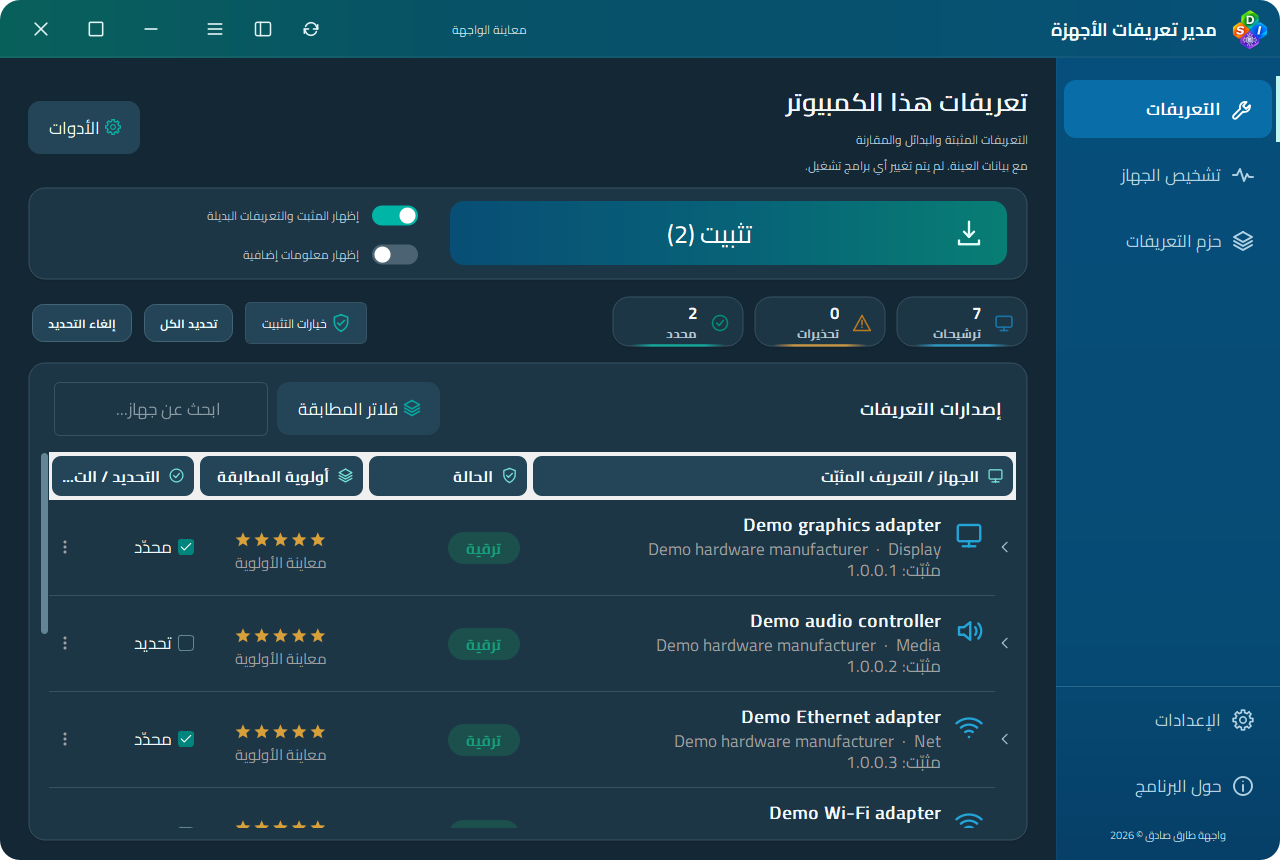
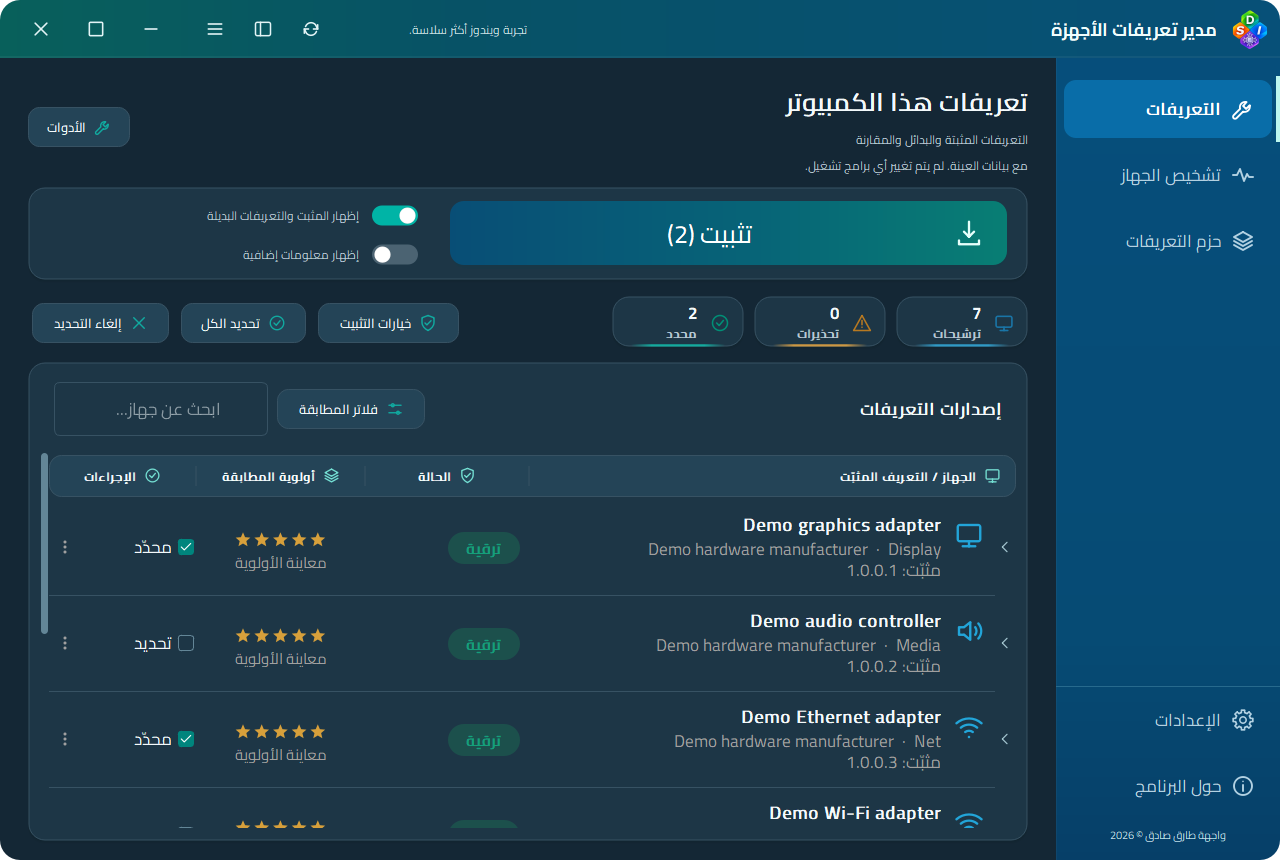
Unify workspace commands and round table header and row hover for 0.21.9 Beta

diff --git a/src/driver_workspace.cpp b/src/driver_workspace.cpp
@@ -44,10 +44,25 @@
 #include <functional>
 #include "driver_row_delegate.h"
 
+// Paint the entire header once so native section backgrounds cannot leave square corners.
 class DriverHeader : public QHeaderView {
-public:explicit DriverHeader(QWidget *parent):QHeaderView(Qt::Horizontal,parent){setMinimumHeight(48);setMaximumHeight(48);}
-protected:void paintSection(QPainter *p,const QRect &rect,int section)const Q_DECL_OVERRIDE {
-    if(!rect.isValid())return;const bool dark=Theme::isDark(this),rtl=layoutDirection()==Qt::RightToLeft;const QColor link=Theme::color("link",dark);const QRect area=rect.adjusted(3,4,-3,-4);p->save();p->setRenderHint(QPainter::Antialiasing);p->setPen(Qt::NoPen);p->setBrush(Theme::color("elevated",dark));p->drawRoundedRect(area,9,9);QFont face=font();face.setFamily(UiFont::family());face.setPointSizeF(9);face.setWeight(QFont::DemiBold);p->setFont(face);p->setPen(Theme::color("text",dark));const char *symbols[]={"monitor","shield","layers","check-circle"};QRect textArea=area.adjusted(rtl?8:34,0,rtl?-34:-8,0);VectorIcons::icon(QString::fromLatin1(symbols[section%4]),link,17).paint(p,QRect(rtl?area.right()-25:area.left()+9,area.center().y()-8,17,17));p->drawText(textArea,Qt::AlignAbsolute|(rtl?Qt::AlignRight:Qt::AlignLeft)|Qt::AlignVCenter,QFontMetrics(face).elidedText(model()->headerData(section,Qt::Horizontal).toString(),Qt::ElideRight,textArea.width()));p->restore();
+public:explicit DriverHeader(QWidget *parent):QHeaderView(Qt::Horizontal,parent){setFixedHeight(48);viewport()->setAutoFillBackground(false);viewport()->setAttribute(Qt::WA_OpaquePaintEvent,false);}
+protected:void paintEvent(QPaintEvent*) Q_DECL_OVERRIDE {
+    QPainter p(viewport());p.setRenderHint(QPainter::Antialiasing);const bool dark=Theme::isDark(this),rtl=layoutDirection()==Qt::RightToLeft;
+    p.fillRect(viewport()->rect(),Theme::color("surface",dark));
+    const QRectF band=QRectF(viewport()->rect()).adjusted(.5,3.5,-.5,-3.5);p.setPen(QPen(Theme::color("border",dark),1));p.setBrush(Theme::color("elevated",dark));p.drawRoundedRect(band,12,12);
+    QPainterPath clip;clip.addRoundedRect(band,12,12);p.setClipPath(clip);
+    QFont face=font();face.setFamily(UiFont::family());face.setPixelSize(12);face.setWeight(QFont::DemiBold);p.setFont(face);
+    const char *symbols[]={"monitor","shield","layers","check-circle"};
+    for(int section=0;section<count();++section){
+        if(isSectionHidden(section))continue;const QRect area(sectionViewportPosition(section),4,sectionSize(section),height()-8);
+        if(section>0){const int x=rtl?area.right():area.left();p.setPen(QPen(Theme::color("border",dark),1));p.drawLine(QPointF(x,band.top()+11),QPointF(x,band.bottom()-11));}
+        const QString label=p.fontMetrics().elidedText(model()->headerData(section,Qt::Horizontal).toString(),Qt::ElideRight,qMax(0,area.width()-48));
+        const int textWidth=p.fontMetrics().width(label),total=textWidth+25;
+        const int left=section==0?(rtl?area.right()-total-14:area.left()+14):area.center().x()-total/2;
+        VectorIcons::icon(QString::fromLatin1(symbols[section%4]),Theme::color("link",dark),17).paint(&p,QRect(rtl?left+total-17:left,area.center().y()-8,17,17));
+        p.setPen(Theme::color("text",dark));p.drawText(QRect(rtl?left:left+25,area.top(),textWidth,area.height()),Qt::AlignAbsolute|(rtl?Qt::AlignRight:Qt::AlignLeft)|Qt::AlignVCenter,label);
+    }
 }
 };
 
@@ -65,10 +80,13 @@ protected:
         viewport()->update();QTreeWidget::mouseMoveEvent(event);
     }
     void leaveEvent(QEvent *event) Q_DECL_OVERRIDE {setProperty("hoverRow",-1);viewport()->update();QTreeWidget::leaveEvent(event);}
-    void drawBranches(QPainter *p,const QRect &rect,const QModelIndex &index)const Q_DECL_OVERRIDE {
+    void drawRow(QPainter *p,const QStyleOptionViewItem &option,const QModelIndex &index)const Q_DECL_OVERRIDE {
         const bool hovered=property("hoverRow").toInt()==index.data(Qt::UserRole).toInt() && property("hoverCandidate").toInt()==index.data(Qt::UserRole+1).toInt();
+        if(hovered || selectionModel()->isSelected(index)){p->save();p->setRenderHint(QPainter::Antialiasing);p->setPen(Qt::NoPen);p->setBrush(Theme::color("elevated",Theme::isDark(this)));p->drawRoundedRect(QRectF(2,option.rect.top()+3,viewport()->width()-4,option.rect.height()-6),12,12);p->restore();}
+        QStyleOptionViewItem clean(option);clean.state &= ~(QStyle::State_MouseOver|QStyle::State_Selected|QStyle::State_HasFocus);QTreeWidget::drawRow(p,clean,index);
+    }
+    void drawBranches(QPainter *p,const QRect &rect,const QModelIndex &index)const Q_DECL_OVERRIDE {
         const bool dark=palette().color(QPalette::Base).lightness()<130;
-        if(hovered || selectionModel()->isSelected(index))p->fillRect(rect,dark?QColor("#244457"):QColor("#EEF7F8"));
         if(!index.parent().isValid() && model()->hasChildren(index)){
             p->save();p->setRenderHint(QPainter::Antialiasing);p->translate(rect.center());if(isExpanded(index))p->rotate(90);else if(layoutDirection()==Qt::RightToLeft)p->rotate(180);
             VectorIcons::paint(p,QStringLiteral("chevron-right"),QRectF(-8,-8,16,16),dark?QColor("#A4C6D0"):QColor("#668594"));p->restore();
@@ -122,9 +140,9 @@ DriverWorkspace::DriverWorkspace(DriverCatalog *catalog,QWidget *parent)
     m_subtitle=label(QStringLiteral("Driver matching, alternatives and selection"),"subText",this);
     titleBox->addWidget(m_title);titleBox->addWidget(m_subtitle);
     heading->addLayout(titleBox,1);
-    m_tools=new QToolButton(this);
+    m_tools=new CommandToolButton(this);
     m_tools->setObjectName(QStringLiteral("secondaryTool"));
-    m_tools->setIcon(VectorIcons::icon(QStringLiteral("settings"),QColor("#0CAFA3"),18));
+    m_tools->setIcon(VectorIcons::icon(QStringLiteral("wrench"),QColor("#10AAA0"),18));
     m_tools->setIconSize(QSize(18,18));
     m_tools->setText(QStringLiteral("Tools"));
     m_tools->setToolButtonStyle(Qt::ToolButtonTextBesideIcon);
@@ -215,11 +233,11 @@ DriverWorkspace::DriverWorkspace(DriverCatalog *catalog,QWidget *parent)
     summaryRow->addStretch(1);
 
     // Safety options remain editable before the demo install but live in one menu.
-    m_installOptions=new QToolButton(summary);
+    m_installOptions=new CommandToolButton(summary);
     m_installOptions->setObjectName(QStringLiteral("quietTool"));
     m_installOptions->setText(QStringLiteral("Install options"));
     m_installOptions->setToolButtonStyle(Qt::ToolButtonTextBesideIcon);
-    m_installOptions->setIcon(VectorIcons::icon(QStringLiteral("shield"),QColor("#0CAFA3"),17));
+    m_installOptions->setIcon(VectorIcons::icon(QStringLiteral("shield"),QColor("#10AAA0"),18));
     m_installPopup=new PremiumPopover(this);
     m_installHeading=m_installPopup->addHeading(QStringLiteral("INSTALL PREFERENCES"));
     m_restore=m_installPopup->addOption(QStringLiteral("Create restore point"),true);
@@ -232,6 +250,7 @@ DriverWorkspace::DriverWorkspace(DriverCatalog *catalog,QWidget *parent)
 
     m_all=actionButton(QStringLiteral("Select all"),"textLinkButton",summary);
     m_none=actionButton(QStringLiteral("Select none"),"textLinkButton",summary);
+    m_all->setIcon(VectorIcons::icon(QStringLiteral("check-circle"),QColor("#10AAA0"),18));m_none->setIcon(VectorIcons::icon(QStringLiteral("close"),QColor("#10AAA0"),18));
     summaryActions->addWidget(m_all);
     summaryActions->addWidget(m_none);
     summaryRow->addLayout(summaryActions);
@@ -240,11 +259,13 @@ DriverWorkspace::DriverWorkspace(DriverCatalog *catalog,QWidget *parent)
     // ONE search/filter toolbar directly above the full-width driver list.
 
 
-    m_filters=new QToolButton(this);
+    m_filters=new CommandToolButton(this);
     m_filters->setObjectName(QStringLiteral("secondaryTool"));
     m_filters->setText(QStringLiteral("Match filters"));
     m_filters->setToolButtonStyle(Qt::ToolButtonTextBesideIcon);
-    m_filters->setIcon(VectorIcons::icon(QStringLiteral("layers"),QColor("#06A79F"),18));
+    m_filters->setIcon(VectorIcons::icon(QStringLiteral("sliders"),QColor("#10AAA0"),18));
+    const QList<QAbstractButton*> commands=QList<QAbstractButton*>()<<m_tools<<m_installOptions<<m_all<<m_none<<m_filters;
+    for(QAbstractButton *command:commands){command->setObjectName(QStringLiteral("workspaceCommand"));command->setProperty("workspaceCommand",true);command->setFixedHeight(40);command->setIconSize(QSize(18,18));QFont face=command->font();face.setFamily(UiFont::family());face.setPixelSize(13);face.setWeight(QFont::Medium);command->setFont(face);}
     m_filterPopup=new PremiumPopover(this);
     m_filterViewHeading=m_filterPopup->addHeading(QStringLiteral("VIEW OPTIONS"));
     m_expert=m_filterPopup->addOption(QStringLiteral("Expert mode"),true);
@@ -703,7 +724,7 @@ void DriverWorkspace::setArabic(bool arabic)
     m_installedLabel->setText(arabic?QString::fromUtf8("إظهار المثبت والتعريفات البديلة"):QStringLiteral("View installed and alternative drivers"));
     m_moreLabel->setText(arabic?QString::fromUtf8("إظهار معلومات إضافية"):QStringLiteral("View additional information"));
     m_search->setPlaceholderText(arabic?QString::fromUtf8("ابحث عن جهاز..."):QStringLiteral("Search devices..."));
-    m_tree->setHeaderLabels(arabic?QStringList()<<QString::fromUtf8("الجهاز / التعريف المثبّت")<<QString::fromUtf8("الحالة")<<QString::fromUtf8("أولوية المطابقة")<<QString::fromUtf8("التحديد / التفاصيل"):
+    m_tree->setHeaderLabels(arabic?QStringList()<<QString::fromUtf8("الجهاز / التعريف المثبّت")<<QString::fromUtf8("الحالة")<<QString::fromUtf8("أولوية المطابقة")<<QString::fromUtf8("الإجراءات"):
                              QStringList()<<QStringLiteral("Device / installed version")<<QStringLiteral("Status")<<QStringLiteral("Priority")<<QStringLiteral("Actions"));
     rebuild();
     m_tree->doItemsLayout();adjustColumns();m_tree->viewport()->update();

diff --git a/src/appearance.cpp b/src/appearance.cpp
@@ -80,28 +80,38 @@ void ActionButton::animate(qreal value){m_animation.stop();if(qApp->property("re
     m_animation.setStartValue(m_hover);m_animation.setEndValue(value);m_animation.start();}
 void ActionButton::enterEvent(QEvent *event){if(isEnabled())animate(1);QPushButton::enterEvent(event);}
 void ActionButton::leaveEvent(QEvent *event){animate(0);QPushButton::leaveEvent(event);}
-void ActionButton::paintEvent(QPaintEvent*){
-    QPainter p(this);p.setRenderHint(QPainter::Antialiasing);const bool dark=darkSurface(this);
-    const bool primary=objectName()==QStringLiteral("primaryButton");
-    const bool quiet=objectName().contains(QStringLiteral("Link"),Qt::CaseInsensitive);
-    const qreal amount=isEnabled()?(isDown()?1:m_hover):0;
-    QColor base=primary?Theme::color("accent",dark):Theme::color("surface",dark);
+static void paintActionSurface(QAbstractButton *button,qreal hoverAmount){
+    QPainter p(button);p.setRenderHint(QPainter::Antialiasing);const bool dark=darkSurface(button);
+    const bool command=button->property("workspaceCommand").toBool();
+    const bool primary=button->objectName()==QStringLiteral("primaryButton");
+    const bool quiet=button->objectName().contains(QStringLiteral("Link"),Qt::CaseInsensitive);
+    const qreal amount=button->isEnabled()?(button->isDown()?1:hoverAmount):0;
+    QColor base=primary?Theme::color("accent",dark):Theme::color(command?"elevated":"surface",dark);
     QColor hover=primary?Theme::color("accentHover",dark):Theme::color("elevated",dark);
     auto mix=[amount](int a,int b){return qRound(a+(b-a)*amount);};
     QColor fill(mix(base.red(),hover.red()),mix(base.green(),hover.green()),mix(base.blue(),hover.blue()));
-    if(quiet){const QColor resting=Theme::color("elevated",dark);fill=QColor(mix(resting.red(),hover.red()),mix(resting.green(),hover.green()),mix(resting.blue(),hover.blue()));}
-    if(!isEnabled())p.setOpacity(.45);
-    p.setPen(primary?Qt::NoPen:QPen(dark?QColor("#426474"):QColor("#D5E5E9"),1));p.setBrush(fill);
-    p.drawRoundedRect(QRectF(rect()).adjusted(.5,.5,-.5,-.5),11,11);
-    p.setPen(primary?QColor("#FFFFFF"):(dark?QColor("#E6F7FA"):QColor("#226071")));QFont face=font();face.setFamily(UiFont::family());face.setStyleHint(QFont::SansSerif);face.setStyleStrategy(QFont::PreferAntialias);p.setFont(face);
-    QRect area=rect().adjusted(14,0,-14,0);
-    if(!icon().isNull()){
-        const int total=fontMetrics().width(text())+iconSize().width()+9;const bool rtl=layoutDirection()==Qt::RightToLeft;const int x=rtl?(width()+total)/2-iconSize().width():(width()-total)/2;
-        icon().paint(&p,QRect(x,(height()-iconSize().height())/2,iconSize().width(),iconSize().height()));if(rtl)area.setRight(x-9);else area.setLeft(x+iconSize().width()+9);
-        p.drawText(area,Qt::AlignAbsolute|(rtl?Qt::AlignRight:Qt::AlignLeft)|Qt::AlignVCenter,text());
-    }else p.drawText(area,Qt::AlignCenter,text());
-    if(hasFocus() && window()->testAttribute(Qt::WA_KeyboardFocusChange)){p.setBrush(Qt::NoBrush);p.setPen(QPen(QColor("#20BCAF"),1.3));p.drawRoundedRect(QRectF(rect()).adjusted(3,3,-3,-3),8,8);}
+    if(quiet && !command){const QColor resting=Theme::color("elevated",dark);fill=QColor(mix(resting.red(),hover.red()),mix(resting.green(),hover.green()),mix(resting.blue(),hover.blue()));}
+    if(command){const QColor rest=Theme::color("elevated",dark),ink=Theme::color("link",dark);const qreal tint=amount*.10;fill=QColor(qRound(rest.red()*(1-tint)+ink.red()*tint),qRound(rest.green()*(1-tint)+ink.green()*tint),qRound(rest.blue()*(1-tint)+ink.blue()*tint));}
+    if(!button->isEnabled())p.setOpacity(.45);
+    p.setPen(primary?Qt::NoPen:QPen(command?Theme::color("border",dark):(dark?QColor("#426474"):QColor("#D5E5E9")),1));p.setBrush(fill);
+    p.drawRoundedRect(QRectF(button->rect()).adjusted(.5,.5,-.5,-.5),11,11);
+    p.setPen(primary?QColor("#FFFFFF"):(command?Theme::color("text",dark):(dark?QColor("#E6F7FA"):QColor("#226071"))));QFont face=button->font();face.setFamily(UiFont::family());face.setStyleHint(QFont::SansSerif);face.setStyleStrategy(QFont::PreferAntialias);if(command)face.setWeight(QFont::Medium);p.setFont(face);
+    QRect area=button->rect().adjusted(14,0,-14,0);
+    if(!button->icon().isNull()){
+        const int total=p.fontMetrics().width(button->text())+button->iconSize().width()+9;const bool rtl=button->layoutDirection()==Qt::RightToLeft;const int x=rtl?(button->width()+total)/2-button->iconSize().width():(button->width()-total)/2;
+        button->icon().paint(&p,QRect(x,(button->height()-button->iconSize().height())/2,button->iconSize().width(),button->iconSize().height()));if(rtl)area.setRight(x-9);else area.setLeft(x+button->iconSize().width()+9);
+        p.drawText(area,Qt::AlignAbsolute|(rtl?Qt::AlignRight:Qt::AlignLeft)|Qt::AlignVCenter,button->text());
+    }else p.drawText(area,Qt::AlignCenter,button->text());
+    if(button->hasFocus() && button->window()->testAttribute(Qt::WA_KeyboardFocusChange)){p.setBrush(Qt::NoBrush);p.setPen(QPen(QColor("#20BCAF"),1.3));p.drawRoundedRect(QRectF(button->rect()).adjusted(3,3,-3,-3),8,8);}
 }
+void ActionButton::paintEvent(QPaintEvent*){paintActionSurface(this,m_hover);}
+CommandToolButton::CommandToolButton(QWidget *parent):QToolButton(parent),m_hover(0),m_animation(this,"hoverAmount",this){setProperty("workspaceCommand",true);setCursor(Qt::PointingHandCursor);setToolButtonStyle(Qt::ToolButtonTextBesideIcon);setIconSize(QSize(18,18));setFixedHeight(40);m_animation.setDuration(155);m_animation.setEasingCurve(QEasingCurve::OutCubic);}
+QSize CommandToolButton::sizeHint()const{return QSize(fontMetrics().width(text())+32+(icon().isNull()?0:iconSize().width()+9),40);}
+void CommandToolButton::animate(qreal value){m_animation.stop();if(qApp->property("reduceMotion").toBool()){setHoverAmount(value);return;}m_animation.setStartValue(m_hover);m_animation.setEndValue(value);m_animation.start();}
+void CommandToolButton::enterEvent(QEvent *event){if(isEnabled())animate(1);QToolButton::enterEvent(event);}
+void CommandToolButton::leaveEvent(QEvent *event){animate(0);QToolButton::leaveEvent(event);}
+void CommandToolButton::changeEvent(QEvent *event){if(event->type()==QEvent::EnabledChange && !isEnabled()){m_animation.stop();setHoverAmount(0);}QToolButton::changeEvent(event);}
+void CommandToolButton::paintEvent(QPaintEvent*){paintActionSurface(this,m_hover);}
 DialogHeader::DialogHeader(const QString &title,const QString &symbol,QDialog *dialog,bool arabic):QWidget(dialog),m_dragging(false){
     setFixedHeight(64);setObjectName(QStringLiteral("dialogHeader"));
     QHBoxLayout *line=new QHBoxLayout(this);line->setContentsMargins(22,0,9,0);line->setSpacing(12);
@@ -220,7 +230,7 @@ public:
         if(event->type()==QEvent::ContextMenu){QWidget *widget=qobject_cast<QWidget*>(object);if(widget && textContextMenu(widget,static_cast<QContextMenuEvent*>(event)))return true;}
         QWidget *button=qobject_cast<QAbstractButton*>(object);
         if(!button)button=qobject_cast<QComboBox*>(object);
-        if(!button || qobject_cast<ActionButton*>(button) || qobject_cast<TitleButton*>(button) || qobject_cast<SidebarItem*>(button) ||
+        if(!button || qobject_cast<CommandToolButton*>(button) || qobject_cast<ActionButton*>(button) || qobject_cast<TitleButton*>(button) || qobject_cast<SidebarItem*>(button) ||
            qobject_cast<GradientButton*>(button) || qobject_cast<ToggleSwitch*>(button))return false;
         if(event->type()==QEvent::Polish){button->setMouseTracking(true);}
         if(event->type()==QEvent::Enter || event->type()==QEvent::Leave || event->type()==QEvent::Resize || event->type()==QEvent::MouseMove){

diff --git a/tests/ui/interaction_test.cpp b/tests/ui/interaction_test.cpp
@@ -253,8 +253,13 @@ int main(int argc,char **argv){
         QTest::qWait(20);
         DriverWorkspace *workspace=window.findChild<DriverWorkspace*>();
         QTreeWidget *tree=workspace->findChild<QTreeWidget*>(QStringLiteral("driverTree"));
+        QList<QAbstractButton*> workspaceCommands;for(QAbstractButton *button:workspace->findChildren<QAbstractButton*>())if(button->property("workspaceCommand").toBool())workspaceCommands.append(button);
+        check(workspaceCommands.size()==5,"workspace exposes exactly five consistently styled secondary commands");
+        bool consistentCommands=true;for(QAbstractButton *button:workspaceCommands)if(button->height()!=workspaceCommands.first()->height() || button->font().pixelSize()!=13 || button->icon().isNull() || button->iconSize()!=QSize(18,18))consistentCommands=false;check(consistentCommands,"workspace commands share height, typography and vector icon sizing");
+        const QImage headerImage=tree->header()->viewport()->grab().toImage();const qreal headerDpr=headerImage.devicePixelRatio();const QColor headerCorner=QColor::fromRgba(headerImage.pixel(qRound(1*headerDpr),qRound(4*headerDpr)));const QColor cardSurface=Theme::color("surface",false);check(qAbs(headerCorner.red()-cardSurface.red())<5 && qAbs(headerCorner.green()-cardSurface.green())<5,"header outer corners blend into the card instead of a native grey rectangle");
         check(tree->isAnimated(),"candidate opening and closing animations enabled");
         QTreeWidgetItem *root=tree->topLevelItem(0);check(root!=0,"demo driver row exists");
+        tree->setProperty("hoverRow",0);tree->setProperty("hoverCandidate",-1);tree->viewport()->repaint();const QImage roundedRow=tree->viewport()->grab().toImage();const qreal rowDpr=roundedRow.devicePixelRatio();const int rowTop=tree->visualItemRect(root).top();auto rowPixel=[&](int x,int y){return QColor::fromRgba(roundedRow.pixel(qRound(x*rowDpr),qRound(y*rowDpr)));};const QColor rowCorner=rowPixel(3,rowTop+4),rowCenter=rowPixel(tree->viewport()->width()/2,rowTop+5);check(qAbs(rowCorner.red()-cardSurface.red())<5 && qAbs(rowCorner.green()-cardSurface.green())<5 && (qAbs(rowCenter.red()-rowCorner.red())>5 || qAbs(rowCenter.green()-rowCorner.green())>5),"full-row hover has rounded outer corners while filling the center continuously");tree->setProperty("hoverRow",-1);tree->viewport()->update();
         catalog->toggleIgnored(0);check(catalog->isIgnored(0) && !catalog->canQueue(0),"ignored hardware cannot be queued");
         testSettings->sync();check(testSettings->value(QStringLiteral("ignoredHardwareIds")).toStringList().contains(device.hardwareId),"ignored hardware preferences are persisted");
         QTest::qWait(20);check(tree->topLevelItemCount()==0,"ignored hardware is hidden from the default list");

diff --git a/src/support_report.cpp b/src/support_report.cpp
@@ -14,7 +14,7 @@
 #include <QTextOption>
 
 QString BugReport::environment(const QString &windows,const QString &architecture,const QString &language,bool dark){
-    const QString pattern=UiLanguage::text(QStringLiteral("Version: 0.21.8 (Beta)\nWindows: %1\nArchitecture: %2\nLanguage: %3\nTheme: %4"),QString::fromUtf8("الإصدار: 0.21.8 (بيتا)\nويندوز: %1\nالمعمارية: %2\nاللغة: %3\nالمظهر: %4"));
+    const QString pattern=UiLanguage::text(QStringLiteral("Version: 0.21.9 (Beta)\nWindows: %1\nArchitecture: %2\nLanguage: %3\nTheme: %4"),QString::fromUtf8("الإصدار: 0.21.9 (بيتا)\nويندوز: %1\nالمعمارية: %2\nاللغة: %3\nالمظهر: %4"));
     auto isolate=[](const QString &value){return QChar(0x202a)+value+QChar(0x202c);};
     const bool ar=UiLanguage::isRtl();const QString languageName=ar && language==QStringLiteral("arabic")?QString::fromUtf8("العربية"):language;
     return pattern.arg(ar?isolate(windows):windows,ar?isolate(architecture):architecture,languageName, dark?UiLanguage::text(QStringLiteral("Dark"),QString::fromUtf8("داكن")):UiLanguage::text(QStringLiteral("Light"),QString::fromUtf8("فاتح")));
@@ -42,7 +42,7 @@ void BugReport::show(QWidget *parent){
     QObject::connect(open,&QPushButton::clicked,&dialog,[&](){if(QDesktopServices::openUrl(issueUrl(details)))dialog.accept();else projectMessage(&dialog,t("Cannot open link","تعذّر فتح الرابط"),t("Open the project's Issues page in your browser to report the problem.","افتح صفحة Issues في مستودع المشروع من متصفحك للإبلاغ عن المشكلة."),false,ar);});dialog.exec();
 }
 QJsonObject supportReport(const DriverCatalog &catalog,const sdiomodern::InstallReport &installation,const QString &lastError){
-    QJsonObject root;root.insert(QStringLiteral("schema"),1);root.insert(QStringLiteral("uiVersion"),QStringLiteral("0.21.8"));
+    QJsonObject root;root.insert(QStringLiteral("schema"),1);root.insert(QStringLiteral("uiVersion"),QStringLiteral("0.21.9"));
     root.insert(QStringLiteral("ignoredHardwareIds"),QJsonArray::fromStringList(catalog.ignoredHardwareIds()));
     root.insert(QStringLiteral("createdUtc"),QDateTime::currentDateTimeUtc().toString(Qt::ISODate));
     root.insert(QStringLiteral("windows"),QSysInfo::prettyProductName());root.insert(QStringLiteral("architecture"),QSysInfo::currentCpuArchitecture());

diff --git a/src/app_update.cpp b/src/app_update.cpp
@@ -98,7 +98,7 @@ void check(QWidget *parent,const QString &repository){
     if(!validRepository(repository)){projectMessage(parent,text(QStringLiteral("Application update")),text(QStringLiteral("Enter the project's public GitHub repository as owner/repository.")));return;}
     try{
         Release release;Worker checking;checking.operation=[&]{release=parseRelease(QJsonDocument::fromJson(fetch(QUrl(QStringLiteral("https://api.github.com/repos/")+repository+QStringLiteral("/releases/latest")),checking.stop)).object(),repository);};if(!wait(parent,checking,text(QStringLiteral("Checking the project's latest stable release..."))))return;
-        if(!newer(release.version,QStringLiteral("0.21.8"))){projectMessage(parent,text(QStringLiteral("Application update")),text(QStringLiteral("You already have the latest stable version.")));return;}
+        if(!newer(release.version,QStringLiteral("0.21.9"))){projectMessage(parent,text(QStringLiteral("Application update")),text(QStringLiteral("You already have the latest stable version.")));return;}
         if(!projectMessage(parent,text(QStringLiteral("Application update")),text(QStringLiteral("Download version %1 from %2? The executable will be checked against GitHub's SHA-256 digest before it can replace the application.")).arg(release.version,repository),true,UiLanguage::isRtl()))return;
         QTemporaryDir temporary(QDir::temp().filePath(QStringLiteral("sdi-update-XXXXXX")));if(!temporary.isValid())fail("Cannot create private update staging.");const QString staged=QDir(temporary.path()).filePath(QStringLiteral("verified-update.exe"));
         Worker downloading;downloading.operation=[&]{QSaveFile file(staged);if(!file.open(QIODevice::WriteOnly))fail("Cannot create the staged update file.");fetch(QUrl(release.url),downloading.stop,&file,release.size,release.sha256);if(!file.commit() || !executable(staged))fail("The verified release is not a supported portable executable.");};if(!wait(parent,downloading,text(QStringLiteral("Downloading and verifying the application update..."))))return;

diff --git a/src/theme.cpp b/src/theme.cpp
@@ -49,6 +49,7 @@ QWidget#settingsSectionHeader {background:transparent;}
 QWidget#settingsCard {background:transparent;border:0;border-radius:16px;}
 QWidget#softSurface { background: transparent; border: 0; border-radius: 16px; }
 QWidget#driverTableCard,QWidget#driverTableToolbar {background:transparent;border:0;}
+QAbstractButton[workspaceCommand="true"] {background:transparent;border:0;padding:0;min-height:0;font-size:13px;font-weight:500;}
 QWidget#driverSummaryStrip { background:transparent; border:0; }
 QFrame#metricCard {background:transparent; border:0; border-radius:10px; min-height:54px;}
 QLabel#metricValue {font-size:17px; font-weight:700; color:%4; background:transparent;}
@@ -149,9 +150,9 @@ QTreeWidget#driverTree,QTreeWidget#installQueue,QScrollArea#diagnosticScroll,QSc
  background:%2; color:%4; border:0; border-radius:9px; outline:0;
 }
 QTreeWidget#driverTree::item,QTreeWidget#installQueue::item {border-bottom:1px solid %6; padding:0px;}
-QTreeWidget#driverTree::item:hover {background:%3;}
+QTreeWidget#driverTree::item:hover {background:transparent;}
 QTreeWidget#driverTree QHeaderView::section {background:%3;color:%4;border:0;border-bottom:1px solid %6;padding:12px 10px;font-weight:600;}
-QTreeWidget#driverTree::item:selected {background:%3; color:%4;}
+QTreeWidget#driverTree::item:selected {background:transparent; color:%4;}
 QTreeWidget#installQueue::item:selected {background:transparent; color:%4;}
 QTreeWidget#driverTree::indicator:unchecked { width:18px; height:18px; border-radius:3px; background:%2; border:1px solid %7; }
 QTreeWidget#driverTree::indicator:checked { width:18px; height:18px; border-radius:3px; background:#12AAB5; border:1px solid #12AAB5; image:url(:/sdio/assets/icons/check.svg); }

diff --git a/src/appearance.h b/src/appearance.h
@@ -51,6 +51,27 @@ protected:
 };
 
 QPainterPath windowClip(QWidget *widget,qreal radius=20);
+// Uses the same command surface and sizing as ActionButton in workspace toolbars.
+class CommandToolButton : public QToolButton {
+    Q_OBJECT
+    Q_PROPERTY(qreal hoverAmount READ hoverAmount WRITE setHoverAmount)
+public:
+    explicit CommandToolButton(QWidget *parent=0);
+    QSize sizeHint()const Q_DECL_OVERRIDE;
+    QSize minimumSizeHint()const Q_DECL_OVERRIDE{return sizeHint();}
+    qreal hoverAmount()const{return m_hover;}
+    void setHoverAmount(qreal value){m_hover=value;update();}
+protected:
+    void paintEvent(QPaintEvent*) Q_DECL_OVERRIDE;
+    void enterEvent(QEvent*) Q_DECL_OVERRIDE;
+    void leaveEvent(QEvent*) Q_DECL_OVERRIDE;
+    void changeEvent(QEvent*) Q_DECL_OVERRIDE;
+private:
+    void animate(qreal value);
+    qreal m_hover;
+    QPropertyAnimation m_animation;
+};
+
 class ActionButton : public QPushButton {
     Q_OBJECT
     Q_PROPERTY(qreal hoverAmount READ hoverAmount WRITE setHoverAmount)

diff --git a/src/driver_row_delegate.cpp b/src/driver_row_delegate.cpp
@@ -31,10 +31,8 @@ void DriverRowDelegate::paint(QPainter *p,const QStyleOptionViewItem &option,
     const int align=Qt::AlignAbsolute|(rtl?Qt::AlignRight:Qt::AlignLeft);
     const int col=index.column();
     QStyleOptionViewItem rowOption(option);
-    const QModelIndex identity=index.sibling(index.row(),0);
-    const QWidget *tree=option.widget;while(tree && !qobject_cast<const QTreeWidget*>(tree))tree=tree->parentWidget();
-    if(tree && tree->property("hoverRow").toInt()==identity.data(Qt::UserRole).toInt() &&
-       tree->property("hoverCandidate").toInt()==identity.data(Qt::UserRole+1).toInt())rowOption.state|=QStyle::State_MouseOver;
+    // The tree paints a single rounded full-row surface, including branches and actions.
+    rowOption.state &= ~(QStyle::State_MouseOver|QStyle::State_Selected|QStyle::State_HasFocus);
     if(col==3){
         QStyleOptionViewItem opt(rowOption);opt.state &= ~QStyle::State_HasFocus;
         opt.text.clear();opt.icon=QIcon();opt.features=QStyleOptionViewItem::None;

diff --git a/docs/VALIDATION.md b/docs/VALIDATION.md
@@ -1,10 +1,10 @@
 # Validation scope
 
-Current application version: **0.21.8 Beta**. Hardware/Windows compatibility testing is ongoing. This document separates verified behavior from implementation that still needs hardware/VM testing.
+Current application version: **0.21.9 Beta**. Hardware/Windows compatibility testing is ongoing. This document separates verified behavior from implementation that still needs hardware/VM testing.
 
 | Area | Evidence |
 | --- | --- |
-| Interface, menus, RTL and instances | 230 regression checks at 100% and 150%; English/Arabic and light/dark visual review |
+| Interface, menus, RTL and instances | 234 regression checks at 100% and 150%; English/Arabic and light/dark visual review |
 | Structural/source integration | 83 checks; critical original source fingerprints and reviewed patches |
 | Current native matching | Read-only scan: 222 devices and 572 candidates on the development host |
 | Original engine workflows | Repeated scan, snapshot save/load, target-system preview and extraction of six INF files |
@@ -35,3 +35,5 @@ The final executable's `--gui-security-probe` returned `guiCom: 0` and `restoreC
 0.21.7: 221 UI checks at 100%/150%, including equal About action widths/icons and selecting an alternative from its status cell. Gallery review covers the unified table card, expanded card shadows, bottom accents and rounded scrollbars. Windows 1058 means System Restore is disabled; the program preserves the requirement and offers System Protection or review of the explicit restore option. No Windows protection settings, restore creation or installation were changed during these checks.
 
 0.21.8: explicit reinstallation resolves the installed metadata row to an eligible, locally available same/current Origin candidate. The plan retains the native token and ordinary validation. Bulk selection skips reinstallation. Regression coverage checks the consent warning and simulated running/completed reinstall statuses; no real driver installation or restore creation was performed. Detail tabs fill the width and have vector icons, device values use regular body type, quiet actions have resting surfaces, and the update activity strip is directly painted with rounded caps.
+
+0.21.9: 234 UI checks at 100% and 150%, including shared command dimensions/type/icon sizing and header corner pixels blending into the containing card. The five workspace commands share the same painter and state handling; header rendering bypasses native section backgrounds. No native driver/restore/reboot behavior changed or was executed.

diff --git a/README_AR.md b/README_AR.md
@@ -3,8 +3,8 @@
   <h1>مدير تعريفات الأجهزة — الواجهة الحديثة</h1>
   <p><strong>مطابقة المحرك الأصلي، وواجهة حديثة، وخطوات أوضح.</strong></p>
   <p>مشروع مجتمعي من تطوير <strong>طارق صادق · Diagoo1</strong></p>
-  <p><img src="https://img.shields.io/badge/release-0.21.8_Beta-E9A23B" alt="بيتا"> <img src="https://img.shields.io/badge/license-GPL--3.0-00857D" alt="GPL 3"></p>
-  <p><a href="README.md">English</a> · <a href="https://github.com/Diagoo1/Snappy-Driver-Installer-Modern/releases/tag/v0.21.8">تحميل البيتا</a> · <a href="docs/GALLERY.md">معرض الصور</a> · <a href="https://github.com/Diagoo1/Snappy-Driver-Installer-Modern/issues/new?template=bug_report.yml">الإبلاغ عن مشكلة</a></p>
+  <p><img src="https://img.shields.io/badge/release-0.21.9_Beta-E9A23B" alt="بيتا"> <img src="https://img.shields.io/badge/license-GPL--3.0-00857D" alt="GPL 3"></p>
+  <p><a href="README.md">English</a> · <a href="https://github.com/Diagoo1/Snappy-Driver-Installer-Modern/releases/tag/v0.21.9">تحميل البيتا</a> · <a href="docs/GALLERY.md">معرض الصور</a> · <a href="https://github.com/Diagoo1/Snappy-Driver-Installer-Modern/issues/new?template=bug_report.yml">الإبلاغ عن مشكلة</a></p>
 </div>
 
 ## فكرة المشروع
@@ -39,7 +39,7 @@
 
 ## البدء
 
-1. حمّل الملف التنفيذي أو الحزمة المحمولة من [الإصدار 0.21.8 Beta](https://github.com/Diagoo1/Snappy-Driver-Installer-Modern/releases/tag/v0.21.8).
+1. حمّل الملف التنفيذي أو الحزمة المحمولة من [الإصدار 0.21.9 Beta](https://github.com/Diagoo1/Snappy-Driver-Installer-Modern/releases/tag/v0.21.9).
 2. ضع `drivers` و`indexes` بجواره، أو اختر مساراتهما من الإعدادات. الحزم غير مرفقة.
 3. افحص الجهاز وراجع الإصدارات والتحديد. إذا احتاج البرنامج صلاحيات المسؤول، يعرض إعادة الفتح؛ أعد الفحص والتأكيد بعدها. لا يبدأ تثبيت تلقائي عند إعادة الفتح.
 

diff --git a/README.md b/README.md
@@ -4,11 +4,11 @@
   <p><strong>Original matching. A modern interface. A clearer driver workflow.</strong></p>
   <p>A community project by <strong>Tarek Sadek · Diagoo1</strong></p>
   <p>
-    <img src="https://img.shields.io/badge/release-0.21.8_Beta-E9A23B" alt="Beta">
+    <img src="https://img.shields.io/badge/release-0.21.9_Beta-E9A23B" alt="Beta">
     <img src="https://img.shields.io/badge/license-GPL--3.0-00857D" alt="GPL 3">
     <img src="https://img.shields.io/badge/built_with-C%2B%2B_%2F_Qt-075266" alt="C++ and Qt">
   </p>
-  <p><a href="README_AR.md">العربية</a> · <a href="https://github.com/Diagoo1/Snappy-Driver-Installer-Modern/releases/tag/v0.21.8">Download Beta</a> · <a href="docs/GALLERY.md">Screenshots</a> · <a href="https://github.com/Diagoo1/Snappy-Driver-Installer-Modern/issues/new?template=bug_report.yml">Report a bug</a></p>
+  <p><a href="README_AR.md">العربية</a> · <a href="https://github.com/Diagoo1/Snappy-Driver-Installer-Modern/releases/tag/v0.21.9">Download Beta</a> · <a href="docs/GALLERY.md">Screenshots</a> · <a href="https://github.com/Diagoo1/Snappy-Driver-Installer-Modern/issues/new?template=bug_report.yml">Report a bug</a></p>
 </div>
 
 ## Meet the project
@@ -43,7 +43,7 @@ Stars indicate **relative matching priority**, not safety. Forty locales are emb
 
 ## Get started
 
-1. Download the EXE or portable archive from [0.21.8 Beta](https://github.com/Diagoo1/Snappy-Driver-Installer-Modern/releases/tag/v0.21.8).
+1. Download the EXE or portable archive from [0.21.9 Beta](https://github.com/Diagoo1/Snappy-Driver-Installer-Modern/releases/tag/v0.21.9).
 2. Place `drivers` and `indexes` beside it, or choose their locations in Settings. Packs are not included.
 3. Scan, compare versions and review your selection. If administrator access is needed, the app offers to reopen; scan and confirm again afterward. No selection is installed automatically after elevation.
 

diff --git a/CHANGELOG.md b/CHANGELOG.md
@@ -1,5 +1,12 @@
 # Changelog
 
+## 0.21.9 Beta
+
+- Use one shared renderer, height, type scale, border and hover treatment for the five driver-workspace commands; every command has a consistent vector icon.
+- Replace the ambiguous tools gear with a wrench and use sliders for match filters.
+- Paint full-row hover/keyboard selection as one rounded surface, including the expansion arrow and three-dot action area.
+- Paint the table header as one continuous rounded band with subtle separators, removing native rectangular backgrounds around the corners.
+
 ## 0.21.8 Beta
 
 - Support explicit reinstallation from a matching local same/current Origin candidate, with operation-specific consent and queue labels. Never add reinstalls through bulk selection or install from metadata alone.
